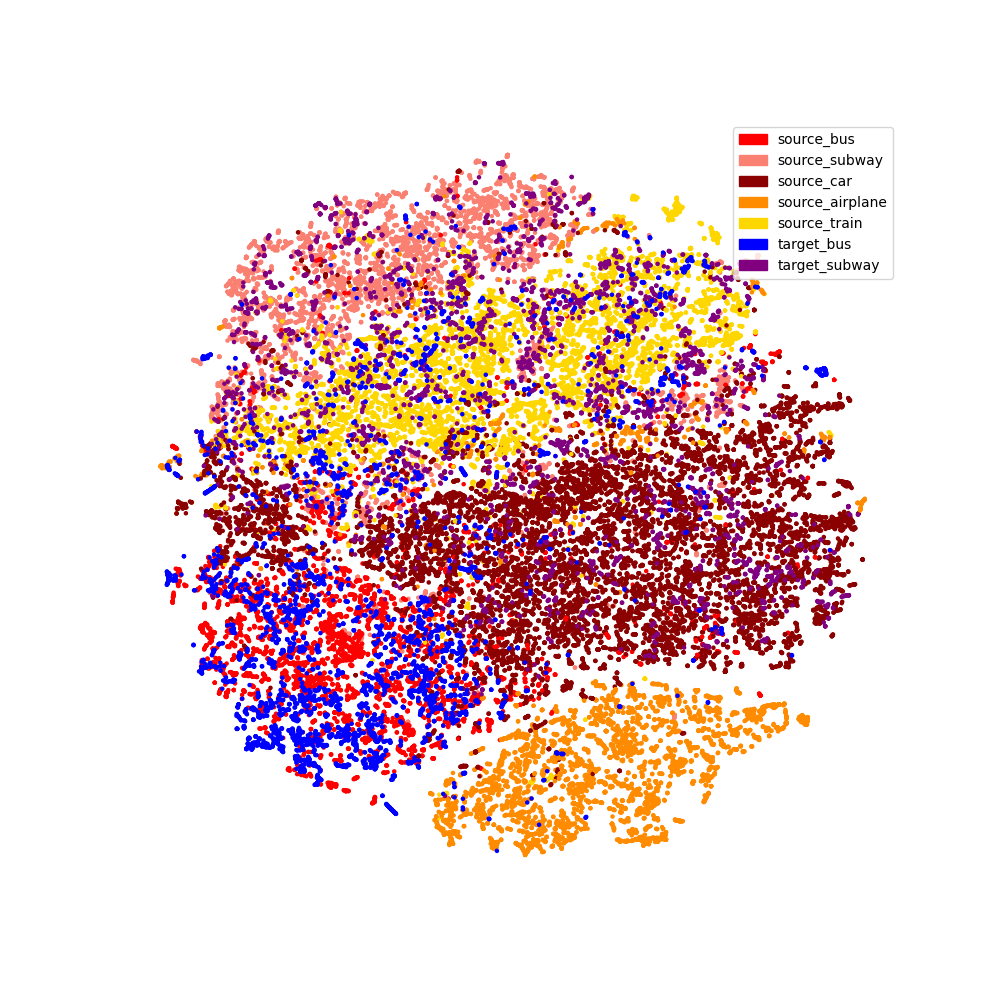
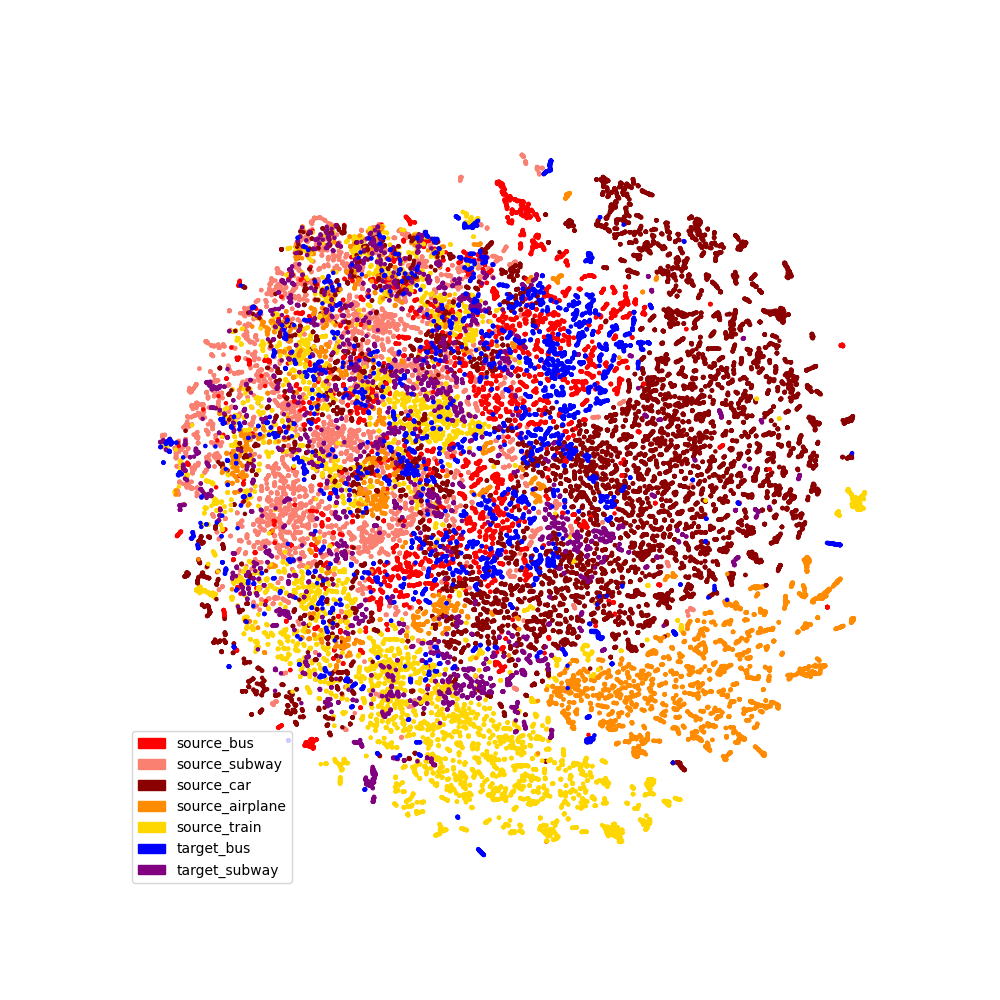
add inception backbones

Changed region(s): [[0.124, 0.124, 0.899, 0.899]]

diff --git a/models/Inception.py b/models/Inception.py
@@ -1,0 +1,68 @@
+import torch
+import torch.nn as nn
+import torch.nn.functional as F
+from typing import List, Optional, Callable
+from torch import Tensor
+
+class ConvUnit(nn.Module):
+    def __init__(self, in_channels: int, out_channels: int, kernel_size: int) -> None:
+        super(ConvUnit, self).__init__()
+        self.padding = nn.ConstantPad1d(((kernel_size-1)//2, kernel_size//2), 0)
+        self.conv = nn.Conv1d(in_channels, out_channels, kernel_size)
+
+    def forward(self, x: Tensor) -> Tensor:
+        return self.conv(self.padding(x))
+
+
+class InceptionModule(nn.Module):
+    def __init__(self, in_channels: int, out_channels: int, kernel_sizes: List[int], bottleneck_dim: int) -> None:
+        super(InceptionModule, self).__init__()
+        K = len(kernel_sizes)
+        assert out_channels % (K + 1) == 0, "The number of kernels does not match the number of out channels"
+        self.ms = nn.ModuleList([ConvUnit(bottleneck_dim, out_channels//(K+1), kernel_size) for kernel_size in kernel_sizes])
+        self.bn = nn.BatchNorm1d(num_features=out_channels)
+        self.bottleneck = nn.Conv1d(in_channels, bottleneck_dim, 1)
+        self.bottleneck_mp = ConvUnit(in_channels, out_channels//(K+1), bottleneck_dim)
+        self.maxpool = nn.MaxPool1d(kernel_size=3, stride=1, padding=1)
+
+    def forward(self, x):
+        y = x.clone()
+        y = self.bottleneck(y)
+        y = torch.cat([m(y) for m in self.ms], dim=1)
+
+        x = self.maxpool(x)
+        x = self.bottleneck_mp(x)
+
+        x = torch.cat([y, x], dim=1)
+        x = self.bn(x)
+        return x
+    
+class InceptionBlock(nn.Module):
+    def __init__(self, in_channels: int, out_channels: int, kernel_sizes: List[int], bottleneck_dim: int) -> None:
+        super(InceptionBlock, self).__init__()
+        self.inception = InceptionModule(in_channels, out_channels, kernel_sizes, bottleneck_dim)
+        self.shortcut = nn.Sequential(nn.Conv1d(in_channels, out_channels, 1), nn.BatchNorm1d(out_channels)) if in_channels != out_channels else nn.Identity()
+
+    def forward(self, x: Tensor) -> Tensor:
+        return F.relu(self.inception(x) + self.shortcut(x))
+
+
+class InceptionTime(nn.Module):
+    def __init__(self, channels: List[int], kernel_sizes: List[int], bottleneck_dim: List[int]) -> None:
+        super(InceptionTime, self).__init__()
+        assert len(channels) == len(bottleneck_dim) + 1, "The number of channels must be equal to the number of bottleneck dimensions + 1"
+        block_nums = len(channels) - 1
+        self.blocks = nn.ModuleList([InceptionBlock(channels[i], channels[i+1], kernel_sizes, bottleneck_dim[i]) for i in range(block_nums)])
+        self.pooling = nn.AdaptiveAvgPool1d(1)
+
+        self.downsample0 = nn.AvgPool1d(2)
+        self.instancenorm0 = nn.InstanceNorm1d(channels[0], affine=True)
+    
+    def forward(self, x: Tensor) -> Tensor:
+        x = self.downsample0(x)
+        x = self.instancenorm0(x)
+
+        for block in self.blocks:
+            x = block(x)
+        x = self.pooling(x)
+        return x.squeeze(-1)

diff --git a/models/ImportanceWeightAdversarial.py b/models/ImportanceWeightAdversarial.py
@@ -11,7 +11,8 @@ from models.CenterLoss import CenterLoss
 
 
 class ImportanceWeightAdversarial(pl.LightningModule):
-    def __init__(self, backbone, classifier, domain_adv_D, domain_adv_D0, n_class, trade_off, gamma, partial_classes_index: Optional[List[int]]=None, pretrained: Optional[bool]=False):
+    def __init__(self, backbone, classifier, domain_adv_D, domain_adv_D0, n_class, trade_off, gamma, partial_classes_index: Optional[List[int]]=None, 
+                 pretrained: Optional[bool]=False, feature_dim: Optional[int]=None):
         super(ImportanceWeightAdversarial, self).__init__()
         self.backbone = backbone
         self.classifier = classifier
@@ -25,7 +26,7 @@ class ImportanceWeightAdversarial(pl.LightningModule):
         self.domain_adv_D0_loss = DomainAdversarialLoss(self.domain_adv_D0)
         self.partial_classes_index = partial_classes_index
         self.pretrained = pretrained
-        self.center_loss = CenterLoss(n_class, 2*backbone.hidden_size, device=f'cuda:1')
+        self.feature_dim = feature_dim
         # self.max_steps = 2000
         # self.steps = 0
     
@@ -47,7 +48,7 @@ class ImportanceWeightAdversarial(pl.LightningModule):
 
         # loss
         # if self.steps >= self.max_steps:
-        loss_cls = F.nll_loss(src_g, src_y) + self.center_loss(src_f, src_y)
+        loss_cls = F.nll_loss(src_g, src_y) 
         loss_adv_D = self.domain_adv_D_loss(src_f.detach(), trg_f.detach())
         with torch.no_grad():
             w_s = get_importance_weight(self.domain_adv_D, src_f)
@@ -100,18 +101,18 @@ class ImportanceWeightAdversarial(pl.LightningModule):
     
     def configure_optimizers(self) -> Any:
         if self.pretrained:
-            optimizer = torch.optim.SGD([
+            optimizer = torch.optim.Adam([
                 {'params': self.domain_adv_D.parameters(), 'lr':1e-4},
                 {'params': self.domain_adv_D0.parameters(), 'lr':1e-4},
                 {'params': self.classifier.parameters(), 'lr':1e-5},
                 {'params': self.backbone.parameters(), 'lr':1e-5},
-            ], nesterov=True, momentum=0.9, weight_decay=1e-4)
+            ])
         else:
             optimizer = torch.optim.Adam([
                 {'params': self.domain_adv_D.parameters(), 'lr':1e-3},
                 {'params': self.domain_adv_D0.parameters(), 'lr':1e-3},
                 {'params': self.classifier.parameters(), 'lr':1e-3},
                 {'params': self.backbone.parameters(), 'lr':1e-3},
-            ], nesterov=True, weight_decay=1e-4, momentum=0.9)
+            ])
         return optimizer
 

diff --git a/iwan.py b/iwan.py
@@ -52,7 +52,8 @@ def main(args: argparse.Namespace):
         train_src_dataloader, train_trg_dataloader = get_train_dataloader(args.data_src_dir, args.data_trg_dir, args.L, args.train_stride, args.batch_size, label_mapping, args.num_workers, args.removed_classes)
         valid_dataloader = get_dataloader(os.path.join(args.data_trg_dir, 'val.json'), args.L, args.test_stride, 2*args.batch_size, shuffle=False, 
                                     label_mapping=label_mapping, num_workers=args.num_workers, removed_classes=[*args.removed_classes, 3])
-        iwan = ImportanceWeightAdversarial(backbone, classifier, domain_adv_D, domain_adv_D0, n_class, args.trade_off, args.gamma, list(filter(lambda x: x not in [2, 3, 4], range(args.n_class))), pretrained=args.pretrained)
+        iwan = ImportanceWeightAdversarial(backbone, classifier, domain_adv_D, domain_adv_D0, n_class, args.trade_off, args.gamma, list(filter(lambda x: x not in [2, 3, 4], range(args.n_class))), 
+                                           pretrained=args.pretrained, feature_dim=args.hidden_size*2)
 
         # logger
         logger = TensorBoardLogger('lightning_logs/', name=args.log_name)
@@ -80,7 +81,8 @@ def main(args: argparse.Namespace):
             n_class=n_class, 
             trade_off=args.trade_off,
             gamma=args.gamma,
-            partial_classes_index=list(filter(lambda x: x not in [2, 3, 4], range(args.n_class)))
+            partial_classes_index=list(filter(lambda x: x not in [2, 3, 4], range(args.n_class))),
+            feature_dim=args.hidden_size*2,
         )
         src_features, src_labels = feature_extract(iwan.backbone, test_src_dataloader, args.devices)
         trg_features, trg_labels = feature_extract(iwan.backbone, test_trg_dataloader, args.devices)
@@ -114,7 +116,7 @@ if __name__ == "__main__":
     parser.add_argument("--num_workers", default=8, type=int)
     parser.add_argument("--pretrained", default=False, action='store_true')
     parser.add_argument("--pretrained_model", default="vanilla", type=str)
-    parser.add_argument("--pretrained_ckpt", default="epoch=44-step=54900.ckpt", type=str)
-    parser.add_argument("--pretrained_version", default=3, type=int)
+    parser.add_argument("--pretrained_ckpt", default="last.ckpt", type=str)
+    parser.add_argument("--pretrained_version", default=1, type=int)
     args = parser.parse_args()
     main(args)

diff --git a/vanilla.py b/vanilla.py
@@ -3,7 +3,7 @@ import pytorch_lightning as pl
 import os
 import argparse
 from pytorch_lightning.callbacks import ModelCheckpoint
-from models import MultiScaleFCN, LinearClassifier
+from models import MultiScaleFCN, LinearClassifier, InceptionTime
 from models import LitTSVanilla as LitTSClassifier
 from utils import class_relabel, get_dataloader, feature_extract
 from argparse import ArgumentParser
@@ -27,8 +27,9 @@ def main(args: argparse.Namespace):
                                         label_mapping=label_mapping, num_workers=args.num_workers, removed_classes=[*args.removed_classes, 3])
 
     ## fcn
-    mF = MultiScaleFCN((args.N, args.L), hidden_size=args.hidden_size, kernel_sizes=[1, 3, 5, 7, 11])
-    mG = LinearClassifier(args.hidden_size*2, n_class)
+    # mF = MultiScaleFCN((args.N, args.L), hidden_size=args.hidden_size, kernel_sizes=[1, 3, 5, 7, 11])
+    mF = InceptionTime([args.N]+ 3*[args.hidden_size], bottleneck_dim=[16, 160, 160,], kernel_sizes=[3, 5, 7, 11])
+    mG = LinearClassifier(args.hidden_size, n_class)
 
     if args.mode == "train":
         train_dataloader = get_dataloader(os.path.join(args.data_src_dir, 'trn.json'), args.L, args.test_stride, args.batch_size, shuffle=True,
@@ -36,7 +37,7 @@ def main(args: argparse.Namespace):
         valid_dataloader = get_dataloader(os.path.join(args.data_trg_dir, 'val.json'), args.L, args.test_stride, 2*args.batch_size, shuffle=False, 
                                     label_mapping=label_mapping, num_workers=args.num_workers, removed_classes=[*args.removed_classes, 3])
         
-        tsc = LitTSClassifier(mF, mG, n_class, args.hidden_size*2, args.devices)
+        tsc = LitTSClassifier(mF, mG, n_class)
         ## training and validation
         logger = TensorBoardLogger('lightning_logs/', name=args.log_name)
         checkpoint_callback = ModelCheckpoint(monitor='val_accuracy', mode='max', save_top_k=-1, save_last=True, every_n_epochs=5)
@@ -54,8 +55,6 @@ def main(args: argparse.Namespace):
             mF=mF,
             mG=mG,
             n_class=n_class,
-            feature_dim=args.hidden_size*2,
-            device=args.devices,
         )
         src_features, src_labels = feature_extract(tsc.mF, test_src_dataloader, args.devices)
         trg_features, trg_labels = feature_extract(tsc.mF, test_trg_dataloader, args.devices)

diff --git a/models/LitTS.py b/models/LitTS.py
@@ -8,16 +8,16 @@ from models.CenterLoss import CenterLoss
 from torch.optim import lr_scheduler
 
 class LitTSVanilla(pl.LightningModule):
-    def __init__(self, mF, mG, n_class, feature_dim, device):
+    def __init__(self, mF, mG, n_class):
         super().__init__()
         self.mF = mF
         self.mG = mG
         self.accuracy = torchmetrics.Accuracy(task="multiclass", num_classes=n_class)
         self.n_class = n_class
-        self.centerLoss = CenterLoss(n_class, feature_dim, f'cuda:{device}')
+        #self.centerLoss = CenterLoss(n_class, feature_dim, f'cuda:{device}')
 
     def training_step(self, batch, batch_idx):
-        # tau = 0.5
+        tau = 0.5
 
         ## simclr loss
 
@@ -90,18 +90,30 @@ class LitTSVanilla(pl.LightningModule):
 
         ## center loss
 
+        # x, y = batch
+        # N = x.shape[0]
+        # f = self.mF(x)
+        # g = self.mG(f)
+        # cls_loss = F.nll_loss(g, y)
+        # #center_loss = self.centerLoss(f, y)
+        # loss = cls_loss #+ center_loss
+
+        # self.log('accuracy', self.accuracy(g, y), prog_bar=True)
+        # self.log('cls_loss', cls_loss, prog_bar=True)
+        # #self.log('center_loss', center_loss, prog_bar=True)
+
+        #########################################################
+
+        ## vanilla loss
+
         x, y = batch
-        N = x.shape[0]
         f = self.mF(x)
         g = self.mG(f)
-        cls_loss = F.nll_loss(g, y)
-        center_loss = self.centerLoss(f, y)
-        loss = cls_loss + center_loss
+        loss = F.nll_loss(g, y)
 
         self.log('accuracy', self.accuracy(g, y), prog_bar=True)
-        self.log('cls_loss', cls_loss, prog_bar=True)
-        self.log('center_loss', center_loss, prog_bar=True)
-
+        self.log('cls_loss', loss, prog_bar=True)
+        
         return loss
     
     def validation_step(self, batch, batch_idx):

diff --git a/models/__init__.py b/models/__init__.py
@@ -8,6 +8,7 @@ from .ConditionalDomainAdversarial import ConditionalDomainAdversarial
 from .ImportanceWeightAdversarial import ImportanceWeightAdversarial
 from .ImportanceWeightModule import get_importance_weight, get_partial_classes_weight, entropy
 from .CenterLoss import CenterLoss
+from .Inception import InceptionTime
 
 __all__ = [
     FCNNaive,
@@ -25,4 +26,5 @@ __all__ = [
     get_partial_classes_weight,
     entropy,
     CenterLoss,
+    InceptionTime, 
 ]

diff --git a/models/FCN.py b/models/FCN.py
@@ -96,7 +96,7 @@ class MultiScaleConvBlock(nn.Module):
     def forward(self, x: Tensor) -> Tensor:
         xs = [m(x) for m in self.ms]
         x = torch.cat(xs, dim=-2)
-        # x = self.bn(x)
+        x = self.bn(x)
         x = F.gelu(x)
         x = self.pooling(x)
         x = self.dropout(x)
